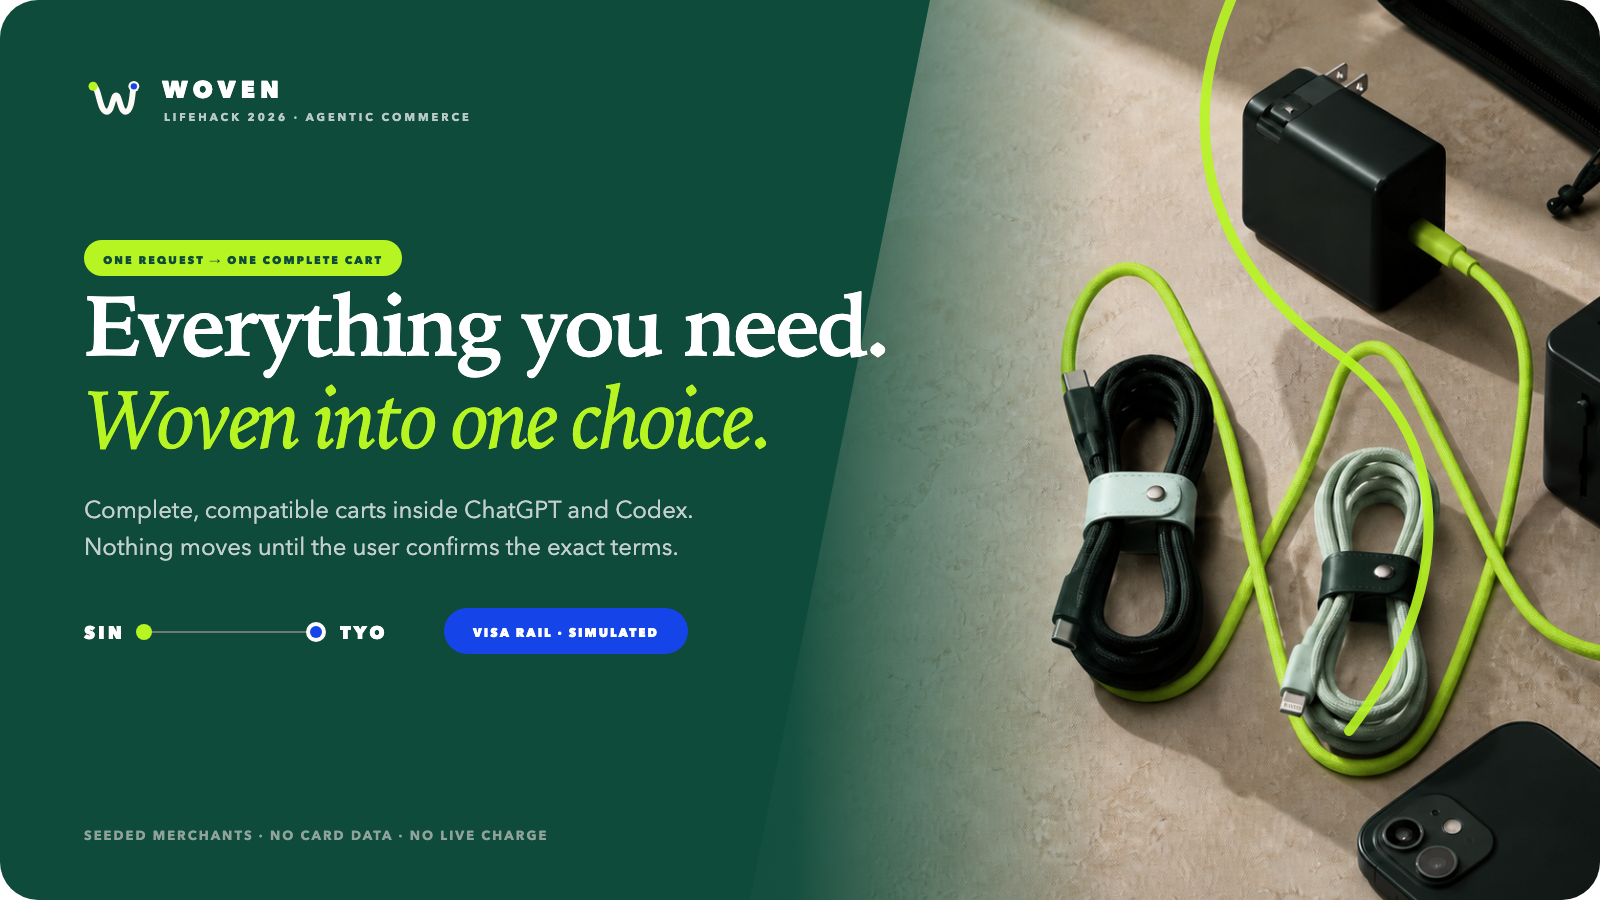
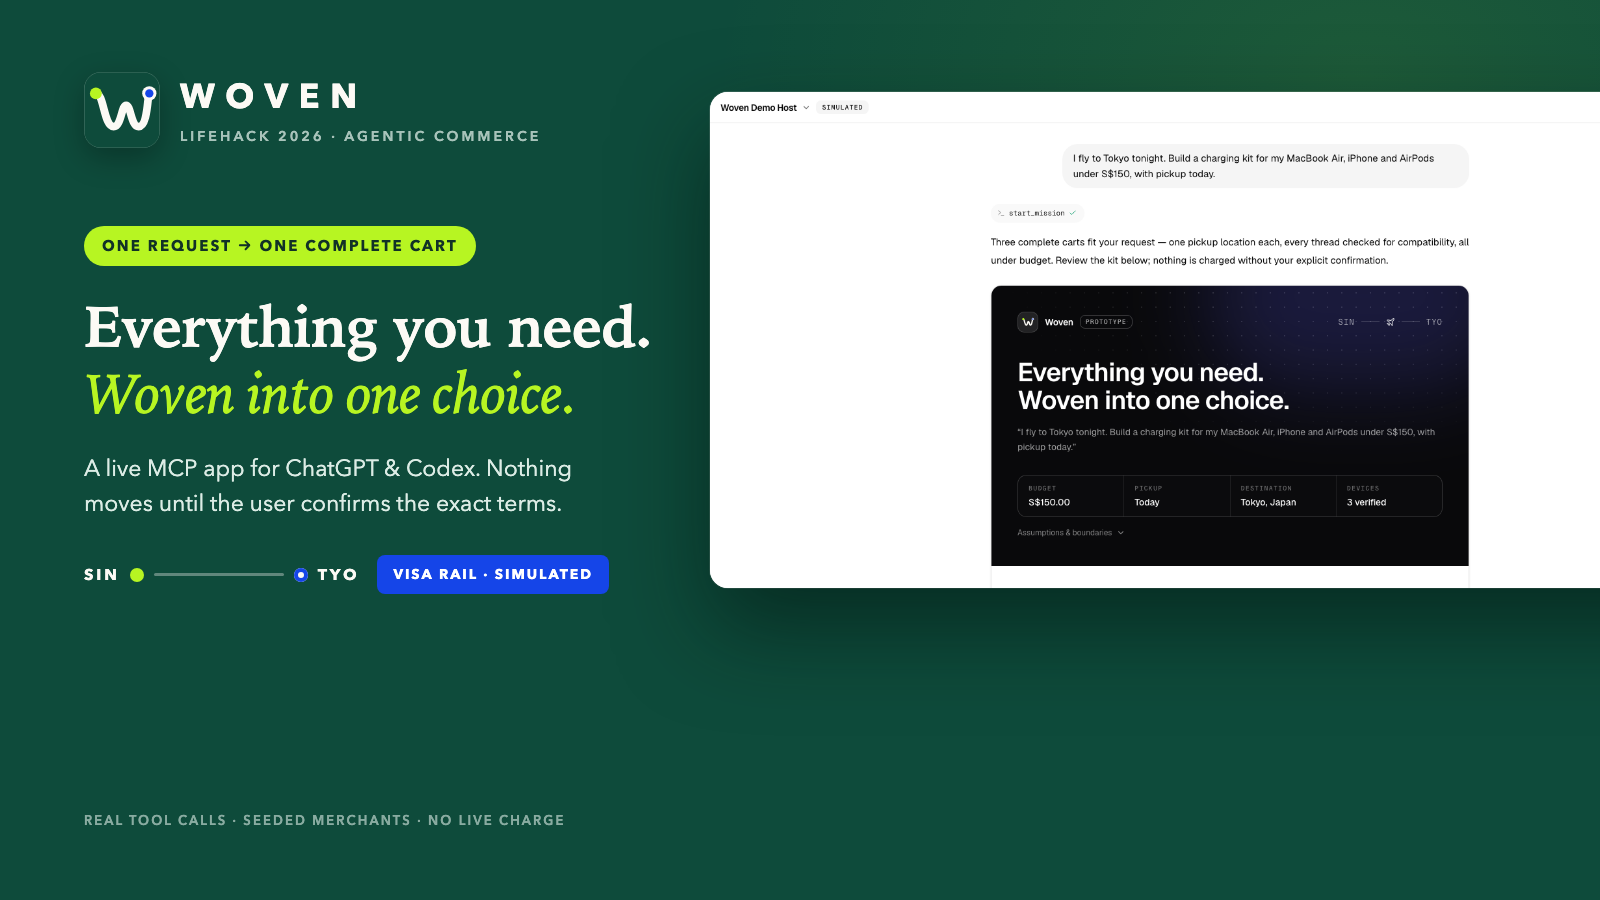
docs(style): ship product-led Devpost thumbnail
Replace the still-life cover with a product-led 1600x900 composition:
brand left panel (Flightpath lockup, promise headline, route and rail
badges) beside the live chat-host buyer shot. Add the editable HTML
source and update the brand-guide asset inventory.

diff --git a/docs/assets/devpost/cover.html b/docs/assets/devpost/cover.html
@@ -1,0 +1,109 @@
+<!--
+  Editable Devpost cover source. Render at exactly 1600x900:
+    npx playwright screenshot --viewport-size=1600,900 docs/assets/devpost/cover.html docs/assets/devpost/cover.png
+  The product shot is docs/assets/screenshots/buyer-overview.png, referenced
+  relatively — re-shoot that first whenever the buyer UI changes, then re-render.
+-->
+<!doctype html>
+<html lang="en">
+<head>
+<meta charset="utf-8">
+<style>
+  :root {
+    --ink: #0e4b3b;
+    --lime: #b7f522;
+    --mist: #dcece5;
+    --paper: #fcfaf5;
+    --blue: #1545e8;
+    --serif: "Iowan Old Style", Baskerville, Georgia, serif;
+    --sans: "Avenir Next", "Helvetica Neue", system-ui, sans-serif;
+  }
+  * { margin: 0; box-sizing: border-box; }
+  body {
+    width: 1600px; height: 900px; overflow: hidden;
+    background: var(--ink);
+    font-family: var(--sans);
+    position: relative;
+  }
+  /* faint woven weft lines across the canvas */
+  .weave {
+    position: absolute; inset: 0;
+    background: radial-gradient(1000px 650px at 85% 8%, rgba(183,245,34,.09), transparent 65%);
+  }
+  .left {
+    position: absolute; top: 0; bottom: 0; left: 0; width: 690px;
+    padding: 72px 0 70px 84px;
+    display: flex; flex-direction: column;
+    z-index: 3;
+  }
+  .lockup { display: flex; align-items: center; gap: 20px; }
+  .lockup svg { width: 76px; height: 76px; border-radius: 17px; box-shadow: 0 10px 30px rgba(0,0,0,.28); }
+  .lockup .word { color: var(--paper); font-weight: 700; font-size: 34px; letter-spacing: .32em; }
+  .lockup .sub { color: var(--mist); opacity: .75; font-size: 14px; letter-spacing: .22em; font-weight: 600; margin-top: 7px; }
+
+  .kicker {
+    margin-top: 78px;
+    display: inline-flex; align-self: flex-start; align-items: center;
+    background: var(--lime); color: #123227;
+    font-size: 15px; font-weight: 700; letter-spacing: .14em;
+    padding: 10px 18px; border-radius: 999px;
+  }
+  h1 { margin-top: 28px; font-family: var(--serif); font-weight: 600; color: var(--paper); font-size: 57px; line-height: 1.16; letter-spacing: -0.01em; white-space: nowrap; }
+  h1 em { display: block; color: var(--lime); font-style: italic; font-weight: 500; }
+  .sub-line { margin-top: 26px; color: var(--mist); font-size: 23px; line-height: 1.5; max-width: 540px; }
+  .badges { margin-top: 34px; display: flex; align-items: center; gap: 18px; }
+  .route { display: flex; align-items: center; gap: 10px; color: var(--paper); font-weight: 700; font-size: 16px; letter-spacing: .18em; }
+  .route .line { width: 130px; height: 3px; background: rgba(252,250,245,.35); border-radius: 2px; position: relative; }
+  .route .o { width: 14px; height: 14px; border-radius: 50%; background: var(--lime); }
+  .route .d { width: 14px; height: 14px; border-radius: 50%; background: var(--paper); box-shadow: inset 0 0 0 4px var(--blue); }
+  .visa { background: var(--blue); color: #fff; font-size: 14px; font-weight: 700; letter-spacing: .14em; padding: 10px 16px; border-radius: 8px; }
+  .foot { margin-top: auto; color: var(--mist); opacity: .6; font-size: 13px; font-weight: 600; letter-spacing: .16em; white-space: nowrap; }
+
+  /* product shot */
+  .shot-wrap { position: absolute; top: 92px; right: -150px; width: 1040px; z-index: 2; }
+  .shot {
+    border-radius: 18px; overflow: hidden;
+    box-shadow: 0 40px 90px rgba(0, 20, 14, .55), 0 0 0 1px rgba(252,250,245,.14);
+    background: #fff;
+  }
+  .shot img { display: block; width: 100%; height: 496px; object-fit: cover; object-position: top center; }
+  /* flightpath thread stitched over the composition */
+  .thread { position: absolute; inset: 0; z-index: 4; pointer-events: none; }
+</style>
+</head>
+<body>
+  <div class="weave"></div>
+
+  <div class="shot-wrap">
+    <div class="shot"><img src="../screenshots/buyer-overview.png" alt=""></div>
+  </div>
+
+  <div class="left">
+    <div class="lockup">
+      <svg viewBox="0 0 128 128" xmlns="http://www.w3.org/2000/svg">
+        <rect width="128" height="128" rx="28" fill="#0e4b3b" stroke="rgba(252,250,245,.25)" stroke-width="2"/>
+        <path d="M20 36c14 0 13 56 30 56 13 0 13-36 21-36s8 36 21 36c16 0 15-56 18-56" fill="none" stroke="#fcfaf5" stroke-linecap="round" stroke-linejoin="round" stroke-width="13"/>
+        <circle cx="20" cy="36" r="10" fill="#b7f522"/>
+        <circle cx="110" cy="36" r="12" fill="#fcfaf5"/>
+        <circle cx="110" cy="36" r="7" fill="#1545e8"/>
+      </svg>
+      <div>
+        <div class="word">WOVEN</div>
+        <div class="sub">LIFEHACK 2026 · AGENTIC COMMERCE</div>
+      </div>
+    </div>
+
+    <div class="kicker">ONE REQUEST → ONE COMPLETE CART</div>
+    <h1>Everything you need.<em>Woven into one choice.</em></h1>
+    <p class="sub-line">A live MCP app for ChatGPT &amp; Codex. Nothing moves until the user confirms the exact terms.</p>
+
+    <div class="badges">
+      <div class="route"><span>SIN</span><span class="o"></span><span class="line"></span><span class="d"></span><span>TYO</span></div>
+      <div class="visa">VISA RAIL · SIMULATED</div>
+    </div>
+
+    <div class="foot">REAL TOOL CALLS · SEEDED MERCHANTS · NO LIVE CHARGE</div>
+  </div>
+
+</body>
+</html>

diff --git a/docs/BRAND_GUIDE.md b/docs/BRAND_GUIDE.md
@@ -88,8 +88,8 @@ confirms, and reverses. Avoid generic AI claims such as “revolutionary,”
 | `docs/assets/brand/woven-hero-flightpath.png` | Text-free campaign hero |
 | `docs/assets/brand/woven-cover.{png,svg}` | Product statement beside the working buyer UI |
 | `docs/assets/brand/concepts/*.png` | Archived identity explorations; not production marks |
-| `docs/assets/devpost/cover.png` | Devpost thumbnail and gallery cover |
-| `docs/assets/devpost/cover.svg` | Editable cover source |
+| `docs/assets/devpost/cover.png` | Devpost thumbnail and gallery cover (product-led chat-host composition) |
+| `docs/assets/devpost/cover.html` | Editable cover source; render at 1600 × 900 after refreshing `buyer-overview.png` |
 | `docs/assets/devpost/architecture.{png,svg}` | Concise system-story slide |
 | `docs/assets/devpost/woven-user-flow.png` | Six-step product flow with real product screens |
 | `docs/assets/devpost/woven-trust-boundary.png` | Human authorization and simulator boundary |
